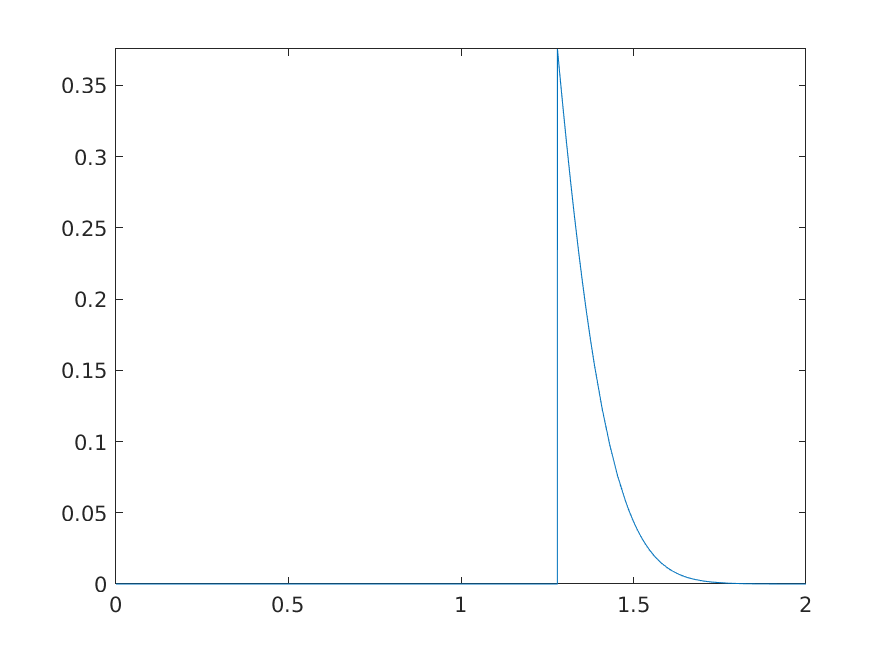
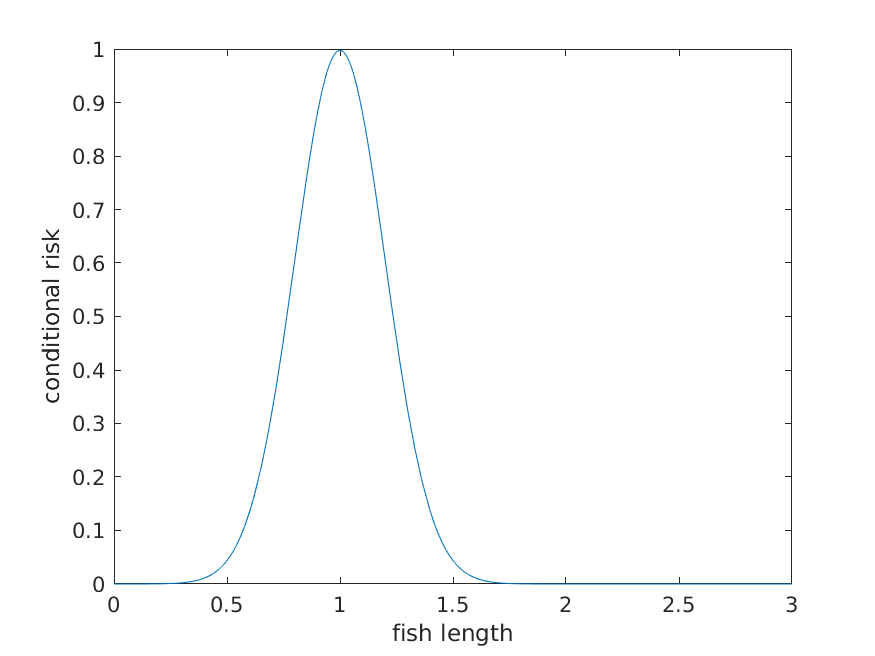
...

diff --git a/assignment2_data/functions/fish_classifier.m b/assignment2_data/functions/fish_classifier.m
@@ -55,23 +55,19 @@ salmon_wrong = integral(@(x) normpdf(x,mu_salmon, sigma_salmon), -Inf, schnittpu
 risk_salmon = seabass_wrong * 0.5;
 risk_seabass = salmon_wrong * 1.2;
     function[y] = cond_risk_salmon(x)
-        if x < schnittpunkt
-            y = 0;
-        else
-            y = normpdf(x, mu_seabass, sigma_seabass) * 0.5;
-        end
+        y = normpdf(x, mu_seabass, sigma_seabass) * 0.5;
     end
     function[y] = cond_risk_seabass(x)
-        if x >= schnittpunkt
-            y = 0;
-        else
-            y = normpdf(x, mu_salmon, sigma_salmon) * 1.2;
-        end
+         y = normpdf(x, mu_salmon, sigma_salmon) * 1.2;
     end
-% cond_risk = fplot(@(x) cond_risk_salmon(x),[0 2]);
-% saveas(cond_risk, 'cond_risk_salmon.png');
-% cond_risk = fplot(@(x) cond_risk_seabass(x), [0 2]);
-% saveas(cond_risk, 'cond_risk_seabass.png')
+cond_risk = fplot(@(x) cond_risk_salmon(x),[0 3]);
+xlabel('fish length');
+ylabel('conditional risk');
+saveas(cond_risk, 'cond_risk_salmon.png');
+cond_risk = fplot(@(x) cond_risk_seabass(x), [0 3]);
+xlabel('fish length');
+ylabel('conditional risk');
+saveas(cond_risk, 'cond_risk_seabass.png');
     function[y] = decision_function(x)
         if 0.5*apost(x,1) > 1.2*apost(x,2)
             y = 1;
